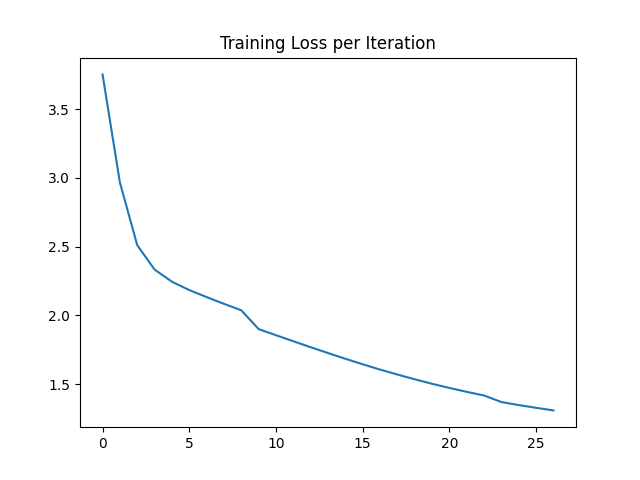
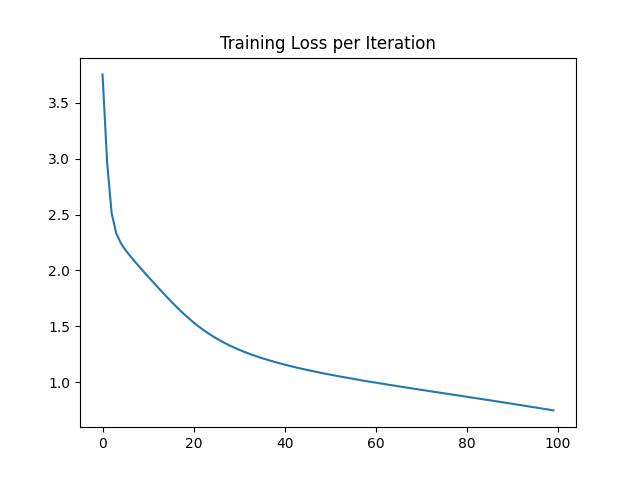
trained 100 epochs, fixed chat interface

diff --git a/chatbot.py b/chatbot.py
@@ -9,7 +9,7 @@ import numpy as np
 def seed_everything(seed):
     np.random.seed(seed)
     tf.random.set_seed(seed)
-seed_everything(42)
+# seed_everything(42)
 
 # convert xml to script-like dataset
 dataset_str = get_dataset('text_messages.xml')
@@ -42,6 +42,7 @@ def gen_text(model, state, stop_count=500, stop_str='You:\n'):
     text = '' # models outputted text goes here
 
     # prime model with '\n'
+    text += '\n'
     ids = chars_to_ids(['\n'])
     ids = np.reshape(ids, (1, -1))
 
@@ -70,15 +71,17 @@ def gen_text(model, state, stop_count=500, stop_str='You:\n'):
         ids = np.reshape(ids, (1, -1))
         count += 1
     
-    return text
+    return text, state
 
 if __name__ == '__main__':
-
+    # prompt user for which model they want
+    model_num = input('Which chat model # are you using: ')
+    
     # load up the model
     # code broke with load_model(), would only accept RNN sequences of the length i trained on
     # using load_weights() instead
     model = ChatModel(len(vocab)+1, 256, 1024) # +1 to account for UNK token
-    model.load_weights('models/epoch2')
+    model.load_weights('models/epoch'+model_num)
 
     # display instructions
     print("""
@@ -97,13 +100,13 @@ Press enter to send your response.
         state = send_text(model, user_resp, state=state)
 
         # generate model's response
-        model_resp = gen_text(model, state)
+        model_resp, state = gen_text(model, state)
 
         # display for the user
-        print(model_resp)
+        print(model_resp, end='')
 
         # get the next user input
-        user_resp = input('') # no + '\n' becaues gen_text func uses it to prime the resp
+        user_resp = input('') + '\n' # model excepts it and it is not captured automatically from console
 
 
 

diff --git a/training.py b/training.py
@@ -48,7 +48,7 @@ D = 256 # embedding dimensionality
 M = 1024 # hidden layer dimensionality
 split_ratio = 0.75 # train/test split ratio
 batch_size = 64
-num_epochs = 30
+num_epochs = 100
 lr = 1e-4
 
 # seed the bois
